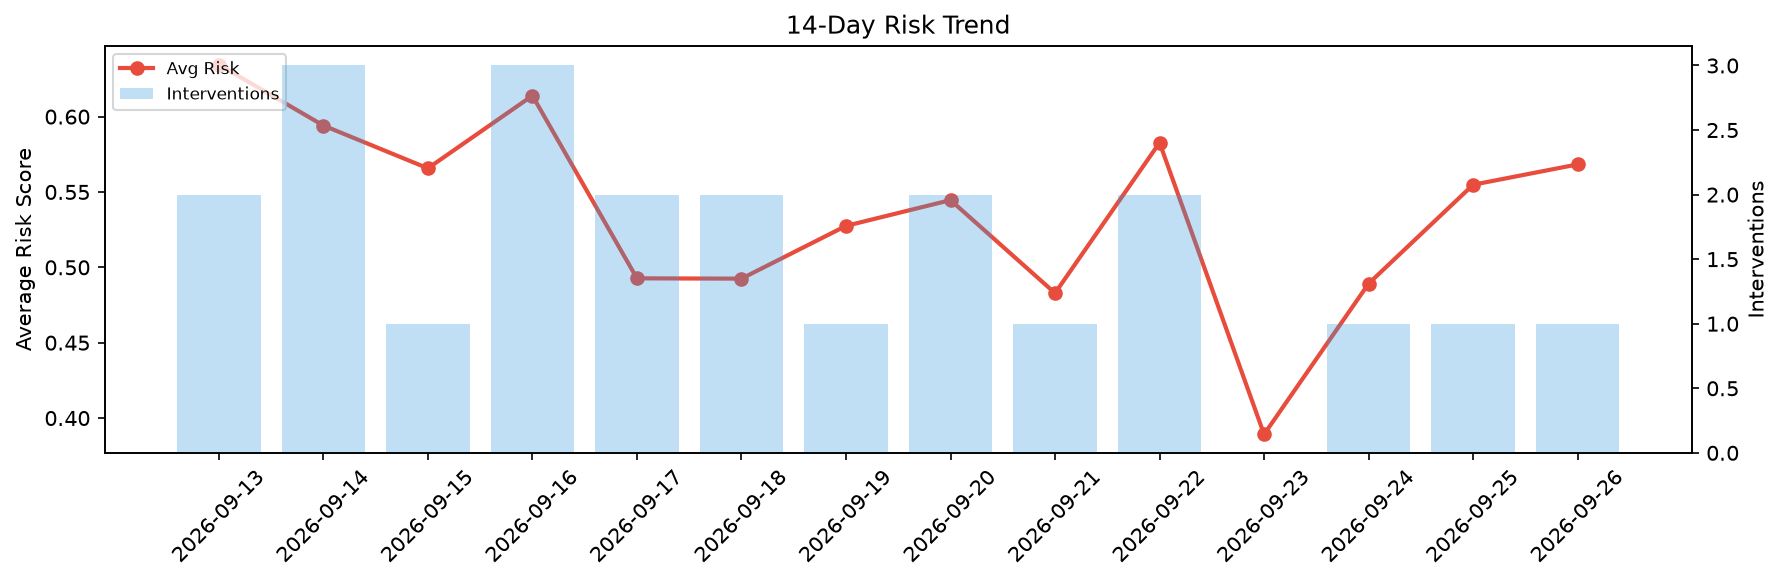
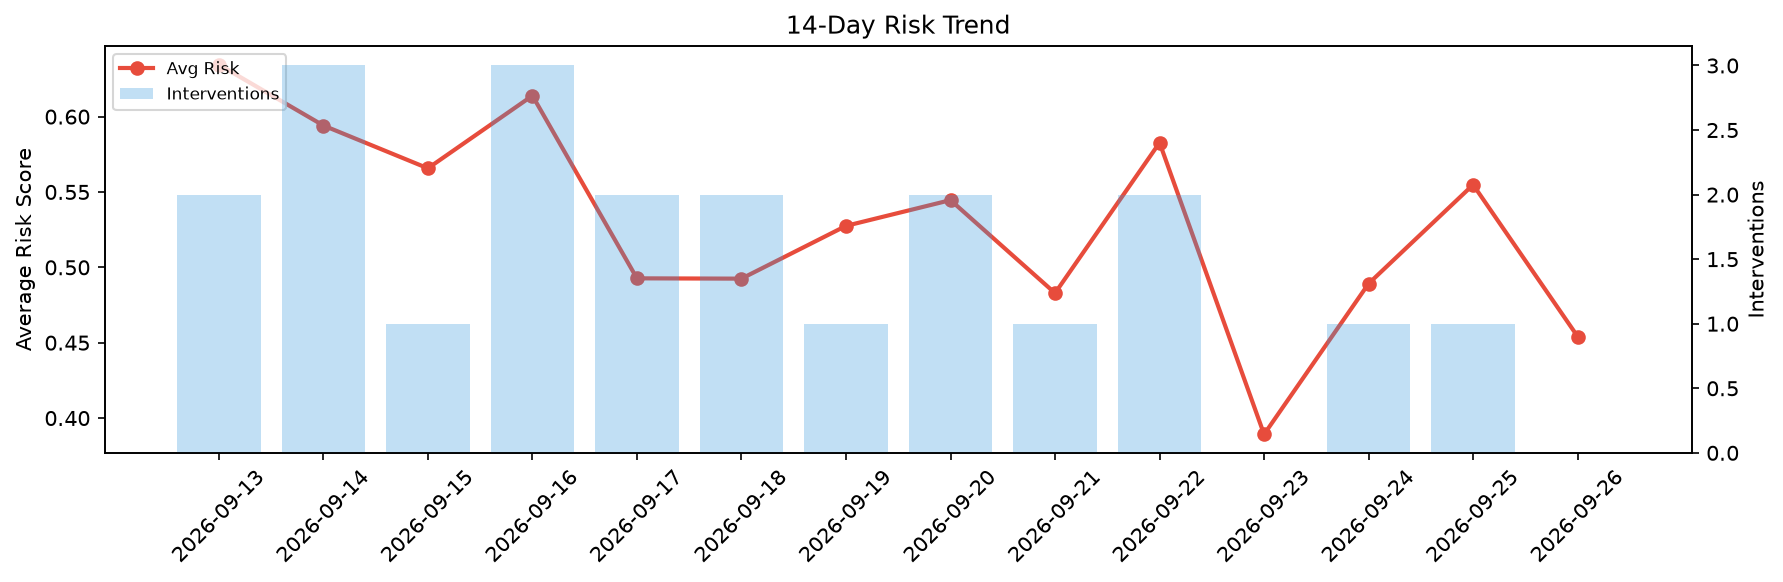
agent-improvement: daily cycle 2026-09-26T17:45

Changed region(s): [[0.8637, 0.4948, 0.9254, 0.8041], [0.8329, 0.3711, 0.8637, 0.4639], [0.8329, 0.2784, 0.8946, 0.3093]]

diff --git a/logs/2026-09-26.md b/logs/2026-09-26.md
@@ -1,6 +1,6 @@
 # Agent Improvement Report — 2026-09-26
 
-**Cycle ID:** `5b8d8b6b` | **Avg Risk:** 0.5683 | **Interventions:** 1/4
+**Cycle ID:** `3b48a15e` | **Avg Risk:** 0.4541 | **Interventions:** 0/4
 
 ![Dashboard](2026-09-26_dashboard.png)
 
@@ -10,18 +10,18 @@
 
 | Domain | Risk Score | Decision | Alerts |
 |--------|-----------|----------|--------|
-| code_review | 0.2331 | monitor | none |
-| incident_response | 0.5286 | monitor | severity |
-| data_pipeline | 0.5744 | monitor | none |
-| deployment | 0.9369 | intervene | rollback_rate, canary_error, latency_p99 |
+| code_review | 0.5884 | monitor | duplication |
+| incident_response | 0.4462 | monitor | none |
+| data_pipeline | 0.4422 | monitor | none |
+| deployment | 0.3397 | monitor | none |
 
 ## Delta vs Yesterday
 
 | Domain | Today | Yesterday | Change |
 |--------|-------|-----------|--------|
-| code_review | 0.2331 | 0.5539 | 📉 -57.9% |
-| incident_response | 0.5286 | 0.7282 | 📉 -27.4% |
-| data_pipeline | 0.5744 | 0.3813 | 📈 50.6% |
-| deployment | 0.9369 | 0.5558 | 📈 68.6% |
+| code_review | 0.5884 | 0.5539 | 📈 6.2% |
+| incident_response | 0.4462 | 0.7282 | 📉 -38.7% |
+| data_pipeline | 0.4422 | 0.3813 | 📈 16.0% |
+| deployment | 0.3397 | 0.5558 | 📉 -38.9% |
 
-**Refinement:** `{'adjustment': 'tighten_thresholds', 'trend': 'degrading', 'window': 4}`
+**Refinement:** `{'adjustment': 'maintain', 'trend': 'improving', 'window': 4}`
